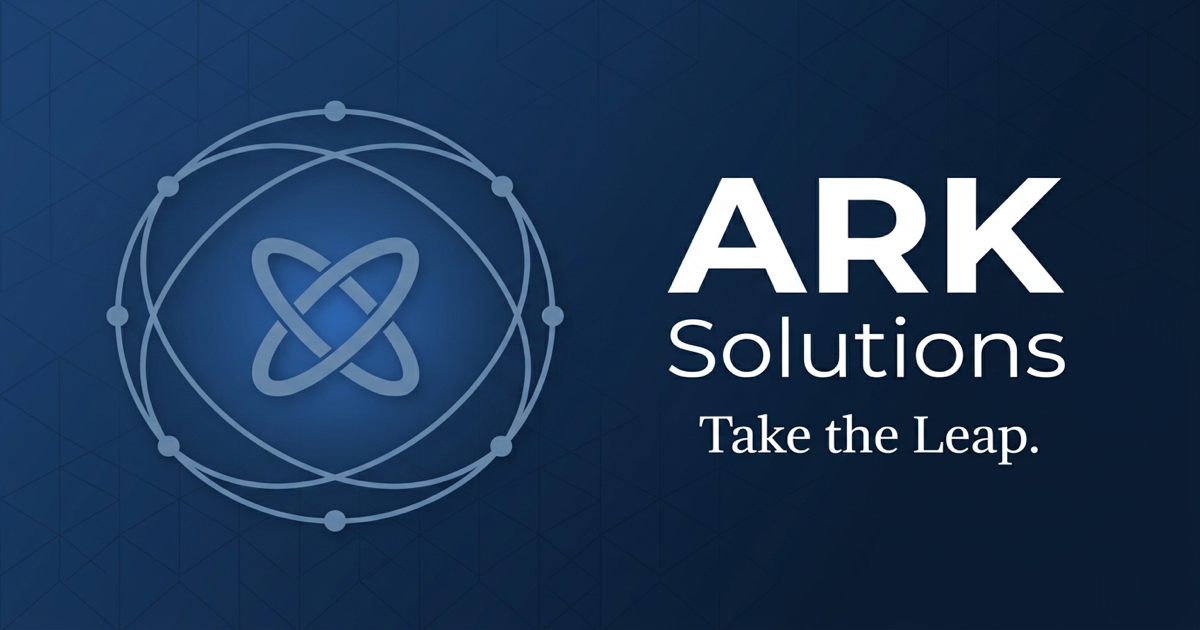
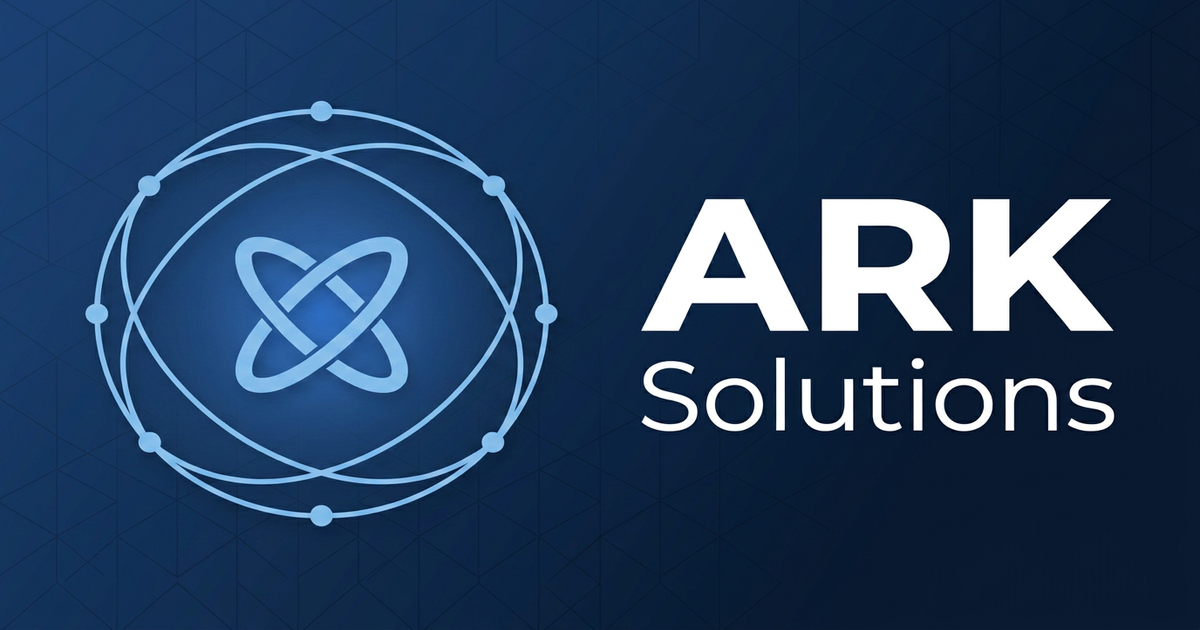
Update OG image and home metadata
- Regenerate og-image.png without tagline; 1200x630 for social previews
- Align index.html and Seo titles/link-preview fields with prior copy changes

Made-with: Cursor

Changed region(s): [[0.0617, 0.1508, 0.4933, 0.8444], [0.5242, 0.2714, 0.925, 0.754], [0.3083, 0.2714, 0.3392, 0.3016]]

diff --git a/src/components/Seo.tsx b/src/components/Seo.tsx
@@ -2,6 +2,8 @@ import { Helmet } from 'react-helmet-async'
 import { site } from '../content/site'
 
 const SITE_URL = site.publicUrl
+/** Host only (e.g. arksolutions.ai) — used for home-page link previews. */
+const SITE_HOST = SITE_URL.replace(/^https?:\/\//i, '').replace(/\/$/, '')
 
 interface SeoProps {
   title?: string
@@ -18,9 +20,11 @@ export function Seo({
   ogType = 'website',
   noIndex = false,
 }: SeoProps) {
-  const pageTitle = title
-    ? `${title} | ${site.name}`
-    : `${site.name} — ${site.tagline}`
+  const isHomePath = path === '/' || path === ''
+  /** Browser tab title — no marketing tagline on home. */
+  const documentTitle = title ? `${title} | ${site.name}` : site.name
+  /** og/twitter title — home uses hostname so previews show arksolutions.ai, not the tagline. */
+  const shareTitle = title ? `${title} | ${site.name}` : isHomePath ? SITE_HOST : site.name
   const pageDescription =
     description ??
     'Custom-fit AI automation, build-to-own software, and competitive intelligence systems for growing businesses. Free consultation — no obligation.'
@@ -29,7 +33,7 @@ export function Seo({
 
   return (
     <Helmet>
-      <title>{pageTitle}</title>
+      <title>{documentTitle}</title>
       <meta name="description" content={pageDescription} />
       <link rel="canonical" href={canonical} />
 
@@ -38,21 +42,21 @@ export function Seo({
       {/* Open Graph */}
       <meta property="og:type" content={ogType} />
       <meta property="og:site_name" content={site.name} />
-      <meta property="og:title" content={pageTitle} />
+      <meta property="og:title" content={shareTitle} />
       <meta property="og:description" content={pageDescription} />
       <meta property="og:url" content={canonical} />
       <meta property="og:image" content={ogImage} />
       <meta property="og:image:width" content="1200" />
       <meta property="og:image:height" content="630" />
-      <meta property="og:image:alt" content={`${site.name} — ${site.tagline}`} />
+      <meta property="og:image:alt" content={site.name} />
       <meta property="og:locale" content="en_US" />
 
       {/* Twitter / X */}
       <meta name="twitter:card" content="summary_large_image" />
-      <meta name="twitter:title" content={pageTitle} />
+      <meta name="twitter:title" content={shareTitle} />
       <meta name="twitter:description" content={pageDescription} />
       <meta name="twitter:image" content={ogImage} />
-      <meta name="twitter:image:alt" content={`${site.name} — ${site.tagline}`} />
+      <meta name="twitter:image:alt" content={site.name} />
 
       {/* Misc */}
       <meta name="theme-color" content="#1e427b" />

diff --git a/index.html b/index.html
@@ -5,7 +5,7 @@
     <meta name="viewport" content="width=device-width, initial-scale=1.0" />
     <meta name="theme-color" content="#1e427b" />
 
-    <title>Ark Solutions — Take the Leap.</title>
+    <title>Ark Solutions</title>
     <meta
       name="description"
       content="Custom-fit AI automation, build-to-own software, and competitive intelligence systems for growing businesses. Free consultation — no obligation."
@@ -19,7 +19,7 @@
     <!-- Open Graph -->
     <meta property="og:type" content="website" />
     <meta property="og:site_name" content="Ark Solutions" />
-    <meta property="og:title" content="Ark Solutions — Take the Leap." />
+    <meta property="og:title" content="arksolutions.ai" />
     <meta
       property="og:description"
       content="Custom-fit AI automation, build-to-own software, and competitive intelligence systems for growing businesses."
@@ -28,18 +28,18 @@
     <meta property="og:image" content="https://arksolutions.ai/og-image.png" />
     <meta property="og:image:width" content="1200" />
     <meta property="og:image:height" content="630" />
-    <meta property="og:image:alt" content="Ark Solutions — Take the Leap" />
+    <meta property="og:image:alt" content="Ark Solutions" />
     <meta property="og:locale" content="en_US" />
 
     <!-- Twitter / X -->
     <meta name="twitter:card" content="summary_large_image" />
-    <meta name="twitter:title" content="Ark Solutions — Take the Leap." />
+    <meta name="twitter:title" content="arksolutions.ai" />
     <meta
       name="twitter:description"
       content="Custom-fit AI automation, build-to-own software, and competitive intelligence systems for growing businesses."
     />
     <meta name="twitter:image" content="https://arksolutions.ai/og-image.png" />
-    <meta name="twitter:image:alt" content="Ark Solutions — Take the Leap" />
+    <meta name="twitter:image:alt" content="Ark Solutions" />
 
     <!-- Preconnect for fonts (most impactful perf hint for LCP) -->
     <link rel="preconnect" href="https://fonts.googleapis.com" />
